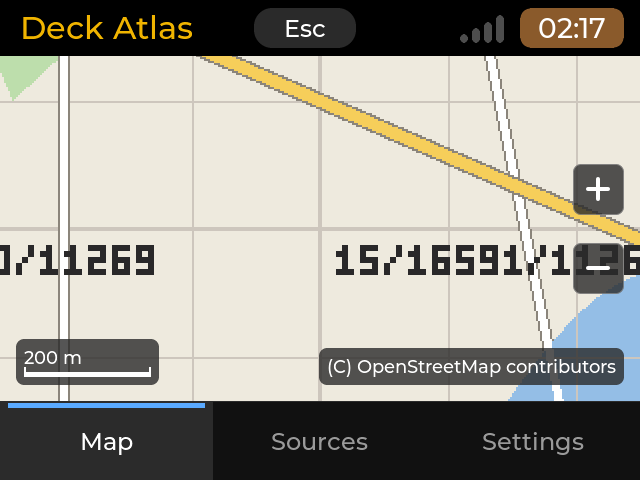
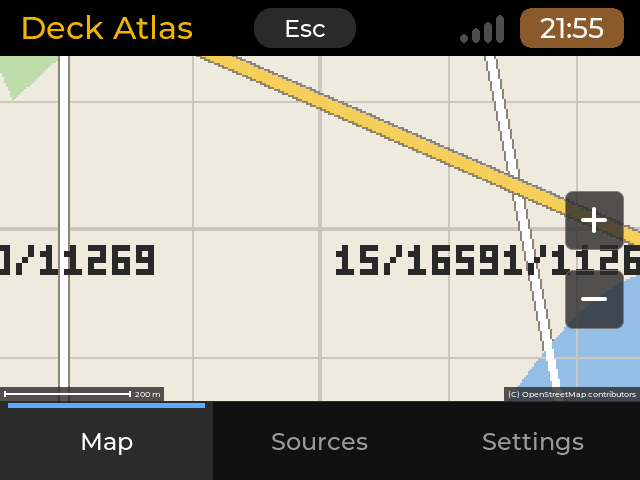
deck-atlas: README and board tests for the bottom-edge credit and the GPS chip, new screenshots
Chip colour progression for the cold start (T5.3), credit legibility on a board (T2), the chip's states and the S key in the
README, what the reader parses and which structures the status page reads; synthetic screenshots regenerated (map, GPS,
credit) and new ones: the credit at 640x480 and 480x320, a sheet of the chip's five states at three sizes.

Claude-Session: https://claude.ai/code/session_01DZirtLRRFpxSjax5Qp5ZSW

diff --git a/apps/deck-atlas/README.md b/apps/deck-atlas/README.md
@@ -31,13 +31,17 @@ The GPS (0.2.0), over a synthetic feed (an invented position inside the test til
 | | |
 | --- | --- |
 | ![3D fix](screenshots/12-gps-3d-640x480.png) | ![Searching](screenshots/18-gps-searching-640x480.png) |
-| 3D fix, nine satellites, accuracy ring; follow button under the zoom buttons | Receiver talking, no fix yet: "Searching", no dot |
+| Good 3D fix, nine satellites, accuracy ring; the chip: dish and three green bars | Receiver talking, no fix yet: dish and one red bar, no dot |
 | ![Moving](screenshots/13-gps-moving-480x320.png) | ![2D](screenshots/16-gps-2d-480x320.png) |
-| Moving: heading wedge, speed; the follow button left of the zoom-out button on the 200 px high 480x320 map | 2D fix: a wider ring |
+| Moving: heading wedge; the follow button left of the zoom-out button on the 200 px high 480x320 map | 2D fix: a wider ring, two orange bars |
 | ![Follow](screenshots/14-gps-follow-320x480.png) | ![Stale](screenshots/15-gps-stale-320x480.png) |
-| Follow on (button highlighted), the dot kept in the middle | Stale (no fix for 5 s): hollow dot, "Last fix 7 s ago" |
+| Follow on (button highlighted), the dot kept in the middle | Stale (no fix for 5 s): hollow dot, the bars dimmed, a "!" |
 | ![Settings](screenshots/17-settings-gps-320x480.png) | ![Credit](screenshots/19-credit-320x480.png) |
-| Settings > GPS receiver | OpenTopoMap's credit shown whole on 320x480 |
+| Settings > GPS receiver | OpenTopoMap's credit, the smallest font on the bottom edge, abbreviated and on two lines on 320x480 |
+| ![Credit 640](screenshots/22-credit-640x480.png) | ![Credit 480](screenshots/23-credit-480x320.png) |
+| The same credit on one line, abbreviated, on 640x480 | On two lines on 480x320, stopping left of the zoom buttons |
+| ![Chip states](screenshots/24-gps-chip-states.png) | |
+| The GPS chip in its five states (no receiver, receiver and no fix, 2D or weak 3D, good 3D, stale) at 640x480, 480x320 and 320x480 | |
 | ![No receiver](screenshots/20-gps-no-receiver-480x320.png) | ![Port](screenshots/21-settings-port-320x480.png) |
 | Only another serial device (a CH340 radar): Auto never opens it | Port lists it; a port chosen by hand is opened |
 
@@ -90,6 +94,7 @@ Three tabs, switched by the strip at the bottom (or Tab / Shift+Tab):
 | --- | --- | --- |
 | Switch tabs | Tab, Shift+Tab | the tab strip |
 | Follow the GPS position (GPS on) | G (on / off), Home (on, recentre) | the crosshair button under the zoom buttons |
+| GPS status page (GPS on; a stub for now) | S | the dish chip at the top left |
 | Pan | arrows (Shift: half a view); the deck's F / X / Z / C aliases | drag |
 | Zoom in / out | + (=, keypad +) or Page Up / - (keypad -) or Page Down | the + / - buttons, a double tap (in) |
 | Move in a list, open, act | Up / Down, Enter or Right | a tap selects a row, a tap on the selected row acts |
@@ -118,7 +123,7 @@ GPS Off the app opens no port at all and the Map tab is exactly what 0.1.0 drew.
   a short built-in list of GPS receivers (`src/core/gps_ids.cpp`): **u-blox 1546:\*** (all), **Prolific 067b:2303** and
   **067b:23a3** (the PL2303 bridges of the common GPS pucks). Every other serial port is **never opened in Auto**: a CH340
   (1a86:\*, the mmWave radar), a CP210x (10c4:\*), an FTDI (0403:\*), an ESP32 or LoRa board (303a:\*, ...), a port with
-  no USB id. With only such ports present the chip says "No GPS receiver found". Other serial ports are listed in
+  no USB id. With only such ports present the chip shows the crossed-out dish. Other serial ports are listed in
   Settings > GPS receiver > Port: pick one there if your receiver is not found by itself, and it is opened as chosen
   (that is your decision, and it is the only way such a port is ever opened). Several known receivers: the u-blox
   first, then the others in port order; the first one that talks is used. Auto looks at the ports every 2 s.
@@ -128,9 +133,20 @@ GPS Off the app opens no port at all and the Map tab is exactly what 0.1.0 drew.
   10 s is found again when it talks. Nothing blocks the screen: the reader runs inside the app's 100 ms timer.
 - **On the map.** With a fix: a filled blue dot with a white outline, a translucent accuracy ring (HDOP x 5 m, 3 to 100 m,
   drawn when wider than the dot) and, above 1 m/s with a known course, a heading wedge. No valid fix sentence for 5 s: a
-  **hollow** dot, no ring. No fix yet: no dot. The **status chip** under the map's top edge says "No GPS device", "No access
-  to GPS port" (the `dialout` group), "No GPS receiver found" (Auto sees only other serial ports), "Searching", "2D fix", "3D fix 9 sats" or "Last fix 12 s ago", with the speed
-  ("19 km/h", "12 mph" with miles) when moving.
+  **hollow** dot, no ring. No fix yet: no dot. The **GPS chip** under the map's top edge (left, below the "overzoom" badge) is a
+  satellite dish with three reception bars, drawn with LVGL primitives; the number of lit bars carries the level, the
+  colour backs it up:
+
+  | Chip | Meaning |
+  | --- | --- |
+  | dish crossed out, three outlined grey bars | no receiver: no device, no access to the port (`dialout`), only other serial ports in Auto, or a port that sends no valid sentence |
+  | 1 red bar | the receiver is connected (valid checksummed sentences in the last 3 s, not just an open port) and has no fix |
+  | 2 orange bars | a 2D fix, or a 3D fix with weak geometry (HDOP above 5, fewer than 5 satellites used, or either unknown) |
+  | 3 green bars | a good 3D fix: HDOP 5 or less and at least 5 satellites used |
+  | the bars of the level dimmed to 40 %, a small "!" | the fix is stale: no valid fix sentence for 5 s |
+
+  A tap on the chip, or the **S** key, calls `open_gps_status()`, the entry of the GPS status page (a stub in this change:
+  the page itself, with the speed, the satellites and the receiver's facts, is the next one). GPS off: no chip.
 - **Follow.** The crosshair button below the zoom buttons (or **G**; **Home** turns it on and recentres): the map keeps the
   position at its centre on every fix, at the zoom it has. A pan (drag, arrow key, double tap away from the centre) turns
   it off; zooming does not. The button is highlighted while follow is on. Off by default.
@@ -273,7 +289,9 @@ The binary links the cp0_lvgl runtime of the CardputerZero launcher by M5Stack (
 ## Build and test
 
 ```sh
-wsl -e sh apps/deck-atlas/build.sh host                 # unit tests (2,014 checks) and 23 scenes (sheets in ~/cdk-build/deck-atlas/host/out/sheets)
+wsl -e sh apps/deck-atlas/build.sh host                 # unit tests (8,344 checks) and 30 scenes (sheets in ~/cdk-build/deck-atlas/host/out/sheets)
+python3 apps/deck-atlas/tests/tools/check_follow_shots.py <host out dir>   # the follow button against the zoom buttons (Pillow, numpy, scipy)
+python3 apps/deck-atlas/tests/tools/check_chip_shots.py <host out dir>     # the chip's bars and colours in the GPS shots
 wsl -e sh apps/deck-atlas/build.sh cross                # the arm64 binary into root/
 wsl -e sh apps/deck-atlas/build.sh cross --arch amd64   # the amd64 binary into root.amd64/
 python3 tools/make_registry.py --only deck-atlas --out <dir>            # a local arm64 .deb, no registry
@@ -285,8 +303,18 @@ python3 tools/make_registry.py --only deck-atlas --arch amd64 --out <dir>
   [`_common` README](../_common/README.md#toolkit-switches-of-one-app-cp0_configmk)); no other app changes.
 - **GPS in the scenes.** `DECKATLAS_GPS=auto|off` switches the GPS on or off; `DECKATLAS_GPS_FEED=<name>` plays
   `tests/gps-feeds/<name>.nmea` through a fake port (demonstration mode only; without it there is no device). The feeds
-  (searching, fix2d, fix3d, moving, follow, stale, noise) are made at build time by `tests/tools/gen_nmea.py` around an
-  invented point in the fixture tiles' area, with valid checksums; no recording, never packaged or committed.
+  (searching, fix2d, fix3d, moving, follow, stale, noise, weak3d, sky, skylost; `sky` is a multi-constellation fix with GPS
+  and SBAS under `$GP`, GLONASS under `$GL`, one `$GNGSA` per system and multi-message GSV groups) are made at build time by
+  `tests/tools/gen_nmea.py` around an invented point in the fixture tiles' area, with an invented satellite geometry and
+  valid checksums; no recording, never packaged or committed.
+- **What the GPS reader parses.** RMC, GGA, GSA and GSV (strict checksum; any talker). GSV groups of several messages are
+  folded into a satellite table when the group is complete (message number = total): constellation (GP GPS, GL GLONASS,
+  GA Galileo, GB / BD BeiDou, GQ QZSS; PRN 33-64 and 120-158 under GPS are SBAS), PRN, elevation, azimuth, SNR (-1 =
+  in view, not tracked), used in the fix (from the GSA reports, per talker and the NMEA 4.1 system id), last seen; a
+  satellite not reported for 10 s is dropped. The link adds its facts: port, speed, device (the USB product string),
+  how it was chosen, valid sentences per second, the last valid sentence, bad checksums. The GPS status page reads
+  `GpsStatus` (`src/core/gps_fix.hpp`: `sats`, `gsa`, `dop`, `link`, `receiver_alive`); the chip's levels are
+  `chip_state()` in `src/core/gps_chip.hpp`.
 - **Demonstration mode** (the scenes; never on a board): `DECKATLAS_DEMO=1` keeps the settings and the store under the
   harness's runtime folder, converts the generated `tests/fixtures/tiles` with the engine's own import at the start, and forces the
   network off. `DECKATLAS_DEMO=empty` starts with nothing; `DECKATLAS_DEMO=import-hold` replaces the import with a
@@ -307,7 +335,7 @@ python3 tools/make_registry.py --only deck-atlas --arch amd64 --out <dir>
 ## Changes
 
 - **0.2.0** (2026-11-07): the GPS reader (NMEA 0183, listen-only, Auto port and speed, hot-plug), the position dot with
-  its accuracy ring, heading wedge and hollow stale state, the status chip, follow mode (button below the zoom buttons,
+  its accuracy ring, heading wedge and hollow stale state, the GPS chip (a satellite dish with three reception bars: crossed out, red, orange, green; a stale fix dims the bars), follow mode (button below the zoom buttons,
   G / Home keys, a pan turns it off), Settings > GPS receiver (GPS, Port, Speed; Port Auto opens only known GPS
   receivers: u-blox, Prolific PL2303 pucks; every other serial device is listed in Port but never opened unless chosen), `position.state` for other apps; the map
   credit and the scale bar sit on the view's bottom edge in the smallest font, the credit whole (abbreviated or

diff --git a/apps/deck-atlas/tests/BOARD-TESTS.md b/apps/deck-atlas/tests/BOARD-TESTS.md
@@ -2,7 +2,7 @@
 
 For the owner (controller-led testing: Claude deploys and reads the logs, you do the physical steps). The models
 (settings, labels, the import progress, the online sources' flow, the file browser, the map geometry, the package files)
-are tested on the PC (`build.sh host`: 2,014 checks), and 23 scenes draw every page at 640x480, 480x320, 320x480 and
+are tested on the PC (`build.sh host`: 8,344 checks), and 30 scenes draw every page at 640x480, 480x320, 320x480 and
 480x800 (plus the zero8 density). What the PC cannot tell: **whether the map is readable on the glass**, how a real
 import feels on a Zero 2 W's SD card, the memory use, and the network path. Keep it short: the main path must work.
 
@@ -73,25 +73,30 @@ The PC tests cover the parser, the fix logic, the baud sniff on a fake port and 
 `position.state` writer, and eight scenes draw every state at 640x480, 480x320 and 320x480. What only a board can tell: the
 real puck, the cold start, power, memory.
 
-1. **Off is quiet.** GPS Off (the default): the Map tab has no chip and no follow button; `ls -l /proc/$(pgrep -x deck-atlas)/fd`
+1. **Off is quiet.** GPS Off (the default): the Map tab has no chip (no dish) and no follow button; `ls -l /proc/$(pgrep -x deck-atlas)/fd`
    shows no `/dev/tty*`. Settings > GPS receiver shows GPS Off, Port Auto, Speed Auto.
 2. **Plug the puck, GPS Auto** (Settings > GPS receiver > GPS). `lsusb` and `ls /dev/ttyACM* /dev/ttyUSB*`: note which node it
-   is and the USB id (u-blox 1546:01a7/01a8/01a9). If the chip says "No access to GPS port": `groups` must list `dialout`
+   is and the USB id (u-blox 1546:01a7/01a8/01a9). If the chip stays the crossed-out dish with the puck plugged in: `groups` must list `dialout`
    (`sudo usermod -aG dialout $USER`, log in again). The log (`[deck-atlas] gps: ...`) says which port and speed it locked at.
-3. **Cold start.** Put the puck where it sees the sky. Note the time from plugging to "Searching", then "2D fix"/"3D fix N
-   sats" (a cold start takes minutes; the chip must say "Searching" meanwhile, and no dot appears before a fix).
+3. **Cold start: the chip's colours.** Put the puck where it sees the sky and watch the chip (dish and three bars) from
+   plugging in. Expect, in this order: the crossed-out dish with three grey outlines (no receiver), **one red bar** within
+   about 3 s of the puck talking (it says the puck sends valid sentences, not that it has a fix), then **two orange bars**
+   (a 2D fix, or a 3D fix with few satellites or a high HDOP) and finally **three green bars** (a good 3D fix: HDOP 5 or
+   less, 5 satellites or more). Note the time of each change (a cold start takes minutes). No dot appears before a fix.
+   Are the bars and the colours readable at arm's length (red against orange especially)? Tap the chip, or press S: nothing
+   visible happens yet (the status page is the next change); the log says "gps: status page requested".
 4. **The dot.** With the fix: the blue dot with its white outline and the accuracy ring at the right place; walk or drive: the
-   heading wedge and the speed in the chip (km/h; mph with Units mi). Cover the puck or unplug its antenna side: after 5 s the dot
-   is hollow and the chip says "Last fix N s ago".
+   heading wedge (the speed is not on the map any more; it comes back on the status page). Cover the puck or unplug its antenna
+   side: after 5 s the dot is hollow, the bars are dimmed and a small "!" shows next to them.
 5. **Follow.** Tap the crosshair button under the zoom buttons (or press G): the map recentres at once and keeps the dot in the
    middle while you move; zoom with the buttons: follow stays; drag the map: follow goes off (the button loses its highlight);
    tap it again: it recentres. Home does the same. Check on the deck and on zero8 that the button is below the zoom buttons, the
    same size, and clear of the map credit and the scale bar (also at 320x480 with PDA mode on).
-6. **Unplug and replug** while the app runs: "No GPS device" within a few seconds, no dot, no crash; plug it back: it finds the
+6. **Unplug and replug** while the app runs: the crossed-out dish within a few seconds (10 s of silence at the latest), no dot, no crash; plug it back: it finds the
    receiver again within about 2 s (same node or another number) and the fix returns. Repeat three times quickly.
-7. **Wrong speed.** Settings > Speed 4800 with the puck at 9600: "Searching" for ever (nothing locks, no garbage position);
+7. **Wrong speed.** Settings > Speed 4800 with the puck at 9600: the crossed-out dish for ever (nothing locks, no garbage position);
    back to Auto: it locks at 9600. The log shows the speeds tried.
-8. **Another app on the port.** Open Serial Console or Mesh Hop on the same node first: Deck Atlas says "Searching" (the port is
+8. **Another app on the port.** Open Serial Console or Mesh Hop on the same node first: the chip stays the crossed-out dish (the port is
    held; no error, no crash) and takes it when the other app lets go (within the 30 s backoff).
 9. **position.state.** While there is a fix: `cat $APPLAUNCH_STATE_DIR/position.state` (else
    `cat $XDG_RUNTIME_DIR/applaunch/position.state`): `fix=3`, `lat`, `lon`, `alt_m`, `utc` (the receiver's time), `mono_ms`, `pid`
@@ -103,10 +108,10 @@ real puck, the cold start, power, memory.
     about the position.
 
 12. **Other serial devices are never opened in Auto** (the owner's rule: a mmWave radar's CH340, ESP32 / LoRa boards). With
-    the CH340 radar (1a86:7523) on a `ttyUSB*` and **no GPS puck**, GPS Auto: the chip says "No GPS receiver found";
+    the CH340 radar (1a86:7523) on a `ttyUSB*` and **no GPS puck**, GPS Auto: the chip is the crossed-out dish;
     `ls -l /proc/$(pgrep -x deck-atlas)/fd | grep tty` shows nothing, the radar keeps streaming in mmWave Radar / Serial Console
     without a reset, and `journalctl` shows no `gps: opened` line. Settings > GPS receiver > Port lists `/dev/ttyUSB0`
-    (tap to pick it: only then is it opened, and "Searching" stays since it sends no NMEA; back to Auto closes it). Then plug
+    (tap to pick it: only then is it opened, and the crossed-out dish stays since it sends no NMEA; back to Auto closes it). Then plug
     the u-blox puck too: Auto finds the puck (u-blox 1546:*) and still never touches the radar. Repeat with an ESP32 / LoRa
     board on a `ttyACM*` (303a:*) or a CP210x / FTDI adapter.
 
